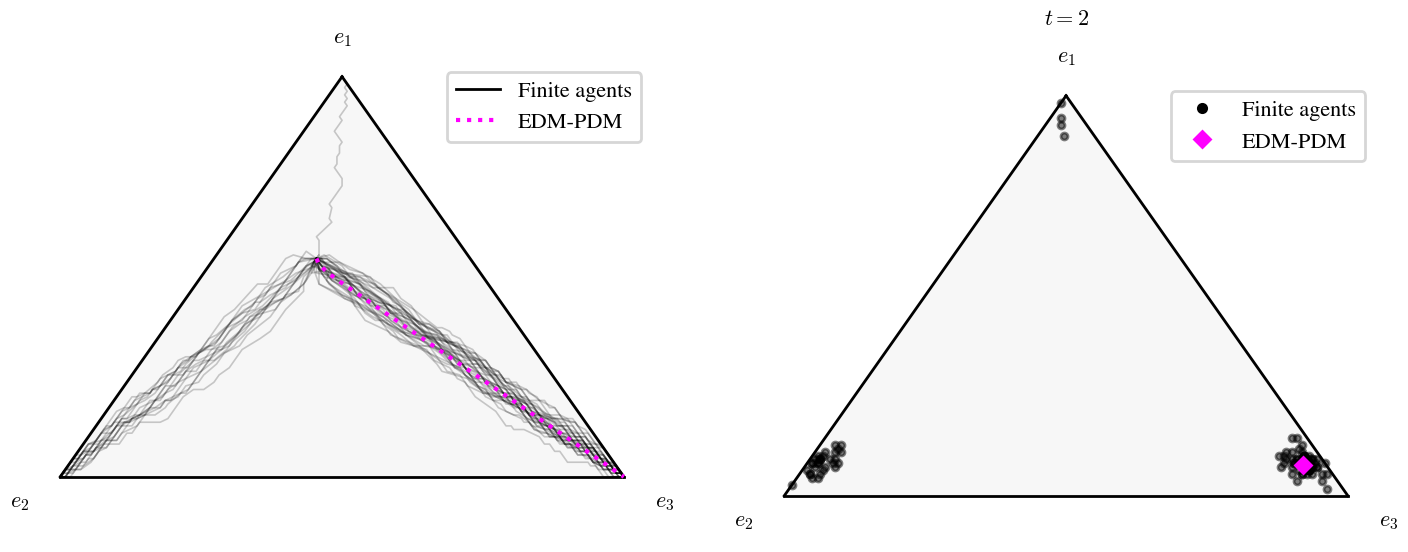
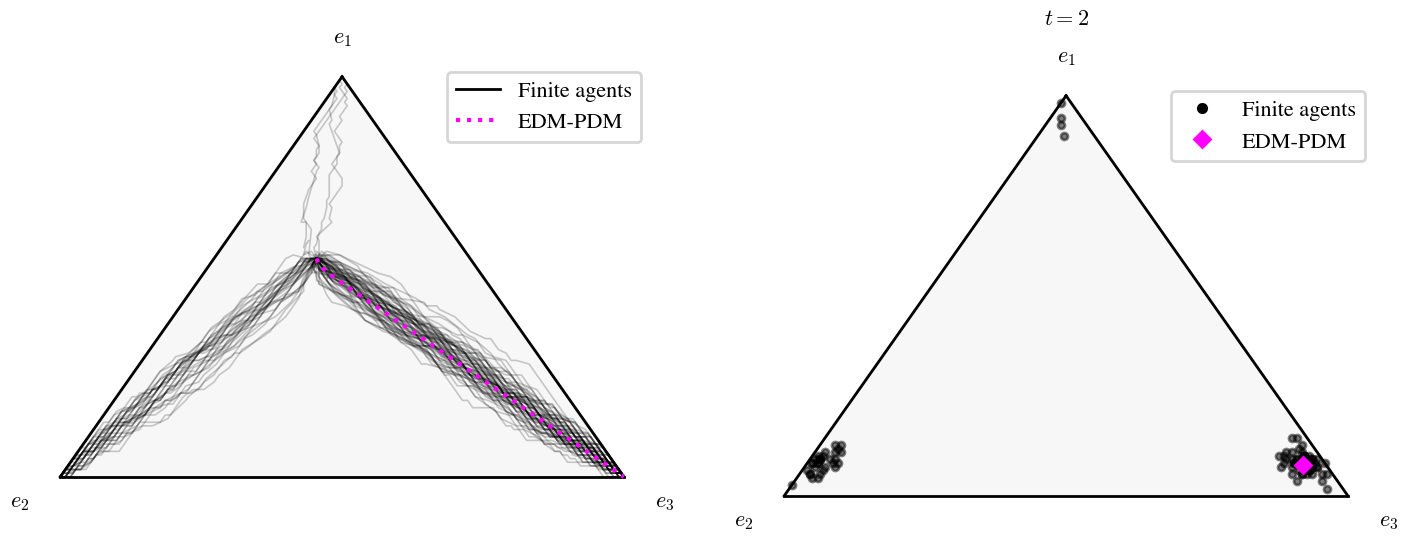
docs: explain the coordination example's EDM and drop the RPS final-state figure
- Plot all 100 runs in the coordination ternary figure.
- Explain why the logit EDM goes only to e3 from the mixed Nash equilibrium:
  the logit dynamic is not Nash stationary (unlike Smith and BNN), so x* is
  not a rest point, and finite-population noise near the basin boundaries
  sends some runs to e1 or e2 (fewer as N grows).
- Remove the RPS final-state figure, which repeated the ternary plot, and
  point to the coordination example for the final plot type.

Changed region(s): [[0.0312, 0.4312, 0.4375, 0.8623], [0.2188, 0.154, 0.25, 0.3388]]

diff --git a/docs/examples/coordination_ensemble.py b/docs/examples/coordination_ensemble.py
@@ -37,13 +37,18 @@ sim = Simulator(
 )
 
 # Case 1: same initial state, different seeds
-x_mixed = np.array([6, 3, 2]).reshape(3, 1) / 11  # Mixed equilibrium: a_i * x_i = 6/11 for all i
+x_mixed = np.array([6, 3, 2]).reshape(3, 1) / 11  # Mixed Nash equilibrium: a_i * x_i = 6/11 for all i
+
+# The logit dynamic is not Nash stationary, so x_mixed is not a rest point of its EDM: with equal payoffs, revising
+# agents pick each strategy with probability 1/3, so the drift (1/3, 1/3, 1/3) - x_mixed ~ (-0.21, 0.06, 0.15) sends
+# the EDM to e3. Finite-agent runs follow the same drift plus O(1/sqrt(N)) noise, and x_mixed is close to the basin
+# boundaries, so some runs end at e1 or e2 instead (fewer as N grows).
 ens = sim.run_ensemble(T_sim=10, num_runs=100, x0=x_mixed, seed=0)
 
 selected = np.bincount(ens.final().x.argmax(axis=1), minlength=3) / len(ens)
 print(f'Fraction of runs ending at e1, e2, e3: {selected}')
 
-ens.plot(plot_type='ternary', plot_deterministic_approximation=True, plot_gne=False)
+ens.plot(plot_type='ternary', max_runs=100, plot_deterministic_approximation=True, plot_gne=False)
 ens.plot(plot_type='final', t=2, plot_deterministic_approximation=True, plot_gne=False)
 
 # Case 2: different initial states, same seed

diff --git a/docs/examples/rock_paper_scissors_ensemble.py b/docs/examples/rock_paper_scissors_ensemble.py
@@ -53,4 +53,3 @@ for name, revision_protocol in revision_protocols.items():
 
     ens.plot(plot_type='ternary', plot_deterministic_approximation=True)
     ens.plot(plot_type='bands', variables=['x'], plot_deterministic_approximation=True)
-    ens.plot(plot_type='final', plot_deterministic_approximation=True)

diff --git a/docs/source/usage_examples/coordination_ensemble_example.md b/docs/source/usage_examples/coordination_ensemble_example.md
@@ -17,7 +17,7 @@ f_i(\mathbf{x}) = a_i x_i, \qquad \mathbf{a} = (1, 2, 3),
 $$
 
 so strategy 3 has the highest payoff when everyone coordinates on it. Each vertex $\mathbf{e}_i$ (everyone plays
-strategy $i$) is a strict Nash equilibrium. There is also an unstable mixed equilibrium, where all strategies have the
+strategy $i$) is a strict Nash equilibrium. There is also a mixed Nash equilibrium, where all strategies have the
 same payoff ($a_i x_i = 6/11$ for all $i$):
 
 $$
@@ -35,19 +35,17 @@ probability.
 
 ## Same initial state, different seeds
 
-The first ensemble starts 100 runs at the mixed equilibrium $\mathbf{x}^*$ (with 110 agents, so that $\mathbf{x}^*$ is
+The first ensemble starts 100 runs at the mixed Nash equilibrium $\mathbf{x}^*$ (with 110 agents, so that $\mathbf{x}^*$ is
 an exact number of agents per strategy), each with its own seed (derived from ``seed=0``).
 
 ```{image} ../_static/coordination_ensemble_seeds.png
 :width: 90%
 :align: center
-:alt: Runs from the mixed equilibrium of the coordination game, and their states at t=2
+:alt: Runs from the mixed Nash equilibrium of the coordination game, and their states at t=2
 ```
 
-At $\mathbf{x}^*$ all strategies earn the same payoff, so logit revisions pick each strategy with the same probability.
-The deterministic approximation (EDM, dotted) moves to $\mathbf{e}_3$. The finite population, however, is pushed
-around by the randomness of the first revisions, and once a strategy gets ahead, coordination amplifies the lead. The
-runs split between the equilibria (left: trajectories of the first 50 runs; right: states of all runs at $t=2$):
+The deterministic approximation (EDM, dotted) goes to $\mathbf{e}_3$, but the runs split between the equilibria (left:
+trajectories of all runs; right: their states at $t=2$):
 
 ```text
 Fraction of runs ending at e1, e2, e3: [0.04 0.31 0.65]
@@ -56,10 +54,69 @@ Fraction of runs ending at e1, e2, e3: [0.04 0.31 0.65]
 A third of the runs end at an equilibrium that the deterministic approximation does not predict. A single run could
 have suggested either outcome: the ensemble shows the probability of each one.
 
+### Why the EDM goes only to $\mathbf{e}_3$
+
+With the logit protocol and a unit Poisson clock rate, the EDM is
+
+$$
+\dot{\mathbf{x}} = \sigma_\eta(\mathbf{f}(\mathbf{x})) - \mathbf{x},
+$$
+
+where $\sigma_\eta$ is the softmax with temperature $\eta$.
+
+Being a Nash equilibrium is a property of the game: at $\mathbf{x}^*$ no agent can gain by switching. Being a rest
+point ($\dot{\mathbf{x}} = \mathbf{0}$) is a property of the dynamic, and the two coincide only for some dynamics.
+The dynamics of {class}`~popgames.revision_protocol.Smith` and {class}`~popgames.revision_protocol.BNN` are **Nash
+stationary**: agents only switch to strategies that earn strictly more, so their rest points are exactly the Nash
+equilibria. Under {class}`~popgames.revision_protocol.Replicator`, agents only imitate strategies that earn strictly
+more, so every Nash equilibrium is a rest point. (The converse fails: the replicator dynamic also has non-Nash rest
+points on the boundary of the simplex, since unused strategies are never imitated.)
+
+The logit dynamic is **not Nash stationary**. Its rest points solve $\mathbf{x} = \sigma_\eta(\mathbf{f}(\mathbf{x}))$.
+They are the *logit equilibria* (quantal response equilibria), in which a small fraction of agents always picks a
+worse strategy at random. Each of them lies close to a Nash equilibrium and converges to it as $\eta \to 0$. The logit
+equilibrium near $\mathbf{x}^*$ is $(0.567, 0.264, 0.169)$ for $\eta = 0.05$, $(0.549, 0.271, 0.179)$ for
+$\eta = 0.01$, and $(0.5458, 0.2726, 0.1816)$ for $\eta = 0.001$, compared with
+$\mathbf{x}^* \approx (0.5455, 0.2727, 0.1818)$.
+
+So $\mathbf{x}^*$ itself is not a rest point of the logit dynamic. All payoffs are equal at $\mathbf{x}^*$, so revising
+agents pick each strategy with probability $1/3$, whereas $\mathbf{x}^*$ has 6/11 of the agents on strategy 1. The
+drift at $\mathbf{x}^*$ is therefore
+
+$$
+\dot{\mathbf{x}} = \left(\tfrac{1}{3}, \tfrac{1}{3}, \tfrac{1}{3}\right) - \tfrac{1}{11}(6, 3, 2)
+\approx (-0.21,\ 0.06,\ 0.15).
+$$
+
+The drift takes agents away from strategy 1 and gives most of them to strategy 3, whose payoff then pulls ahead.
+Coordination amplifies this lead. The EDM is deterministic: from one initial state it has one trajectory and one
+endpoint, $\mathbf{e}_3$.
+
+The finite population follows the same drift, plus random fluctuations of order $1/\sqrt{N}$ (about $0.1$ for
+$N = 110$). That matters here because $\mathbf{x}^*$ lies very close to the boundaries between the basins of
+attraction. The EDM started from $\mathbf{x}^*$ plus a random perturbation of size $0.01$ ends at $\mathbf{e}_2$ about
+30% of the time. The first few revisions can thus push a run across a boundary, and coordination then locks it into
+that basin.
+
+So the EDM does not pick the most likely equilibrium. It is the limit of the finite-agent dynamics as
+$N \to \infty$, and it follows the expected drift. Here $\mathbf{e}_3$ is also the most frequent outcome, because
+the drift from $\mathbf{x}^*$ points into its basin. The other outcomes come from finite-population noise, so they
+fade as the population grows:
+
+| $N$    | e1   | e2   | e3   |
+|--------|------|------|------|
+| 110    | 0.04 | 0.31 | 0.65 |
+| 1100   | 0.00 | 0.07 | 0.93 |
+| 11000  | 0.00 | 0.00 | 1.00 |
+
+(100 runs each, ``seed=0``.)
+
 ```{note}
 With a protocol whose switching rates vanish when all payoffs are equal (e.g.,
-{class}`~popgames.revision_protocol.Smith` or {class}`~popgames.revision_protocol.BNN`), the mixed equilibrium would
-be absorbing: no agent ever revises from $\mathbf{x}^*$, and all runs stay there.
+{class}`~popgames.revision_protocol.Smith`, {class}`~popgames.revision_protocol.BNN`, or
+{class}`~popgames.revision_protocol.Replicator`), $\mathbf{x}^*$ would be a rest point of the EDM and absorbing for
+the finite population: no agent ever switches from $\mathbf{x}^*$, and all runs stay there. This is why the example
+uses the logit protocol.
 ```
 
 ## Different initial states, same seed

diff --git a/docs/source/usage_examples/rock_paper_scissors_ensemble_example.md b/docs/source/usage_examples/rock_paper_scissors_ensemble_example.md
@@ -46,17 +46,10 @@ containing 90% and 50% of the runs at each time (shaded regions), and the EDM (d
 The bands of the Replicator widen over time: the runs drift across orbits and out of phase with each other. The
 bands of the Smith protocol remain narrow.
 
-## Final states
+## Other plot types
 
-``ens.plot(plot_type="final")`` shows where the runs are at the final time (or at any time ``t``).
-
-```{image} ../_static/rps_ensemble_final.png
-:width: 90%
-:align: center
-:alt: Final states of the runs under the Replicator and Smith protocols
-```
-
-The same plot types are available for multi-population games and payoff dynamics models: ``bands`` also plots the
+``ens.plot(plot_type="final")`` shows where the runs are at the final time (or at any time ``t``); see the
+[coordination game example](coordination_ensemble_example.md) for a use case. The same plot types are available for multi-population games and payoff dynamics models: ``bands`` also plots the
 payoffs ``p`` and the PDM state ``q``, and ``kpi`` plots the bands of any KPI (by default, the distance to the GNE).
 
 ## Different initial states
